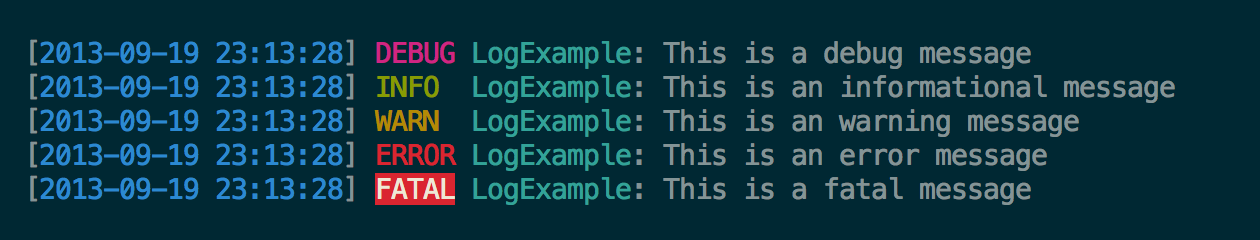
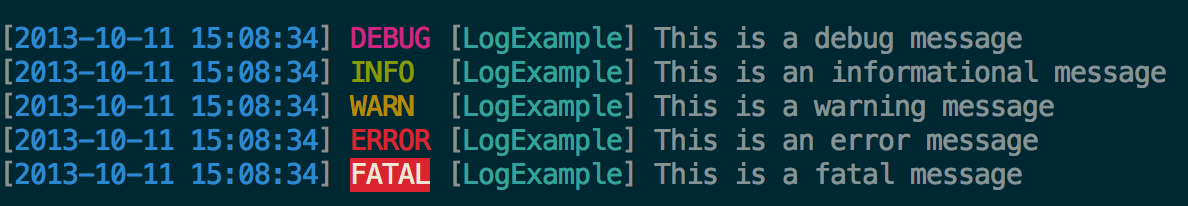
Code for logging factory

Changed region(s): [[0.0, 0.1165, 0.9966, 0.932]]

diff --git a/lib/logging_factory.rb b/lib/logging_factory.rb
@@ -1,18 +1,11 @@
-require 'load_path'
-
-LoadPath.configure do
-  add child_directory('logging_factory')
-
-  require 'version'
-  require 'preconditions'
-  require 'logging'
-end
+require 'version'
+require 'preconditions'
+require 'logging'
 
 #
 # This class that contains code for initializing logs.
-# Author: Nayyara Samuel (nayyara.samuel@opower.com)
+# @author: Nayyara Samuel (mailto: nayyara.samuel@opower.com)
 #
-
 # Patch so that certain checks can be gotten on a class using `include Preconditions`
 module Preconditions
   def self.included(receiver)
@@ -22,88 +15,94 @@ module Preconditions
 end
 
 # Logging factory for logs
-module Opower
+module LoggingFactory
+
   DEFAULT_LOG_CONFIGURATION = {
       output: 'STDOUT',
       truncate: false,
       level: :debug,
-      format: '[%d] %-5l %c: %m\n'
+      format: '[%d] %-5l [%c] %m\n'
   }
 
-  class LoggingFactory
+  # Create a new logging factory
+  def self.create(*params)
+    Logger.new(*params)
+  end
+
+  # Main logger class
+  class Logger
     include Preconditions
-    attr_accessor :log_configuration
+
+    attr_reader :log_configuration
 
     # Initializes this logger instance with teh format specified
     def initialize(config={})
-      final_config = DEFAULT_LOG_CONFIGURATION.merge(config)
-      @log_configuration = final_config
-    end
-
-    def log_configuration=(config)
-      final_config = DEFAULT_LOG_CONFIGURATION.merge(config)
-      @log_configuration = final_config
+      @log_configuration = DEFAULT_LOG_CONFIGURATION.merge(config)
     end
 
     # Returns a new log for the calling class with the supplied configuration
-    def log(caller)
+    def log(caller, config={})
+      log_configuration = @log_configuration.merge(config)
       log = Logging.logger[caller]
-      add_appenders(log)
+      add_appenders(log, log_configuration)
       log
     end
 
     private
-    def add_appenders(log)
-      destination = @log_configuration[:output]
-      truncate = @log_configuration[:truncate]
-      level = @log_configuration[:level].to_sym
+    def add_appenders(log, log_configuration)
+      destination = log_configuration[:output]
+      truncate = log_configuration[:truncate]
+      level = log_configuration[:level].to_sym
+      fmt = log_configuration[:format]
 
       if (destination == 'STDOUT')
-        append_stdout_format(log)
+        append_stdout_format(log, fmt)
       else
-        append_file_format(log, destination, truncate)
+        append_file_format(log, destination, fmt, truncate)
       end
 
+      valid_levels = [:debug, :error, :fatal, :warn, :info]
       check(level) do
-        satisfies("Logging level must be one of {debug, info, warn}") do
-          level == :debug || level == :info || level == :warn
+        satisfies("Logging level must be one of {#{valid_levels.join(',')}}") do
+          valid_levels.include?(level)
         end
       end
       log.level = level
       log
     end
 
-    def append_file_format(log, destination, truncate=false)
+    def append_file_format(log, destination, fmt, truncate=false)
       Logging.appenders.file(destination,
                              {
                                  file_name: destination,
                                  truncate: truncate ? true : false,
-                                 layout: Logging.layouts.pattern(
-                                     pattern: @log_configuration[:format]
-                                 )
-                             }
-      )
+                                 layout: Logging.layouts.pattern(pattern: fmt)
+                             })
       log.add_appenders(destination)
     end
 
-    def append_stdout_format(log)
+    def append_stdout_format(log, fmt)
       Logging.color_scheme('bright',
                            levels: {
-                               debug: :magenta, info: :green, warn: :yellow, error: :red, fatal: [:white, :on_red]
+                               debug: :magenta,
+                               info: :green,
+                               warn: :yellow,
+                               error: :red, fatal: [:white, :on_red]
                            },
-                           date: :blue, logger: :cyan
-      )
+                           date: :blue, logger: :cyan)
       Logging.appenders.stdout(
           'stdout',
           layout: Logging.layouts.pattern(
-              pattern: @log_configuration[:format],
-              color_scheme: 'bright'
-          )
-      )
+              pattern: fmt,
+              color_scheme: 'bright'))
       log.add_appenders 'stdout'
     end
   end
 
-  LOGGING_FACTORY = LoggingFactory.new
+  DEFAULT_FACTORY = LoggingFactory.create
 end
+
+
+
+
 

diff --git a/spec/log_stdout_spec.rb b/spec/log_stdout_spec.rb
@@ -1,0 +1,38 @@
+require 'spec_helper'
+
+describe LoggingFactory::Logger do
+
+  context 'log to file' do
+
+    let(:file_accessor) { FileAccessor.new(:spec) }
+    let(:log_file) { 'my_log.log' }
+    let(:log) { LoggingFactory::DEFAULT_FACTORY.log('LogExample', output: file_accessor['my_log.log']) }
+    let(:debug_message) { 'This is a debug message' }
+    let(:info_message) { 'This is an info message' }
+    let(:warn_message) { 'This is a warn message' }
+    let(:error_message) { 'This is an error message' }
+    let(:fatal_message) { 'This is a fatal message' }
+    let(:time_regex) { /\[\d{4}(\-\d{2}){2} \d{2}(\:\d{2}){2}\]/ }
+
+    before do
+      log.debug(debug_message)
+      log.info(info_message)
+      log.warn(warn_message)
+      log.error(error_message)
+      log.fatal(fatal_message)
+    end
+
+    it 'logs messages correctly with log levels' do
+      log_content = file_accessor.read('my_log.log')
+      log_lines = log_content.split("\n")
+      expect(log_lines[0]).to match(/^#{time_regex} DEBUG \[LogExample\] #{debug_message}$/)
+      expect(log_lines[1]).to match(/^#{time_regex} INFO  \[LogExample\] #{info_message}$/)
+      expect(log_lines[2]).to match(/^#{time_regex} WARN  \[LogExample\] #{warn_message}$/)
+      expect(log_lines[3]).to match(/^#{time_regex} ERROR \[LogExample\] #{error_message}$/)
+      expect(log_lines[4]).to match(/^#{time_regex} FATAL \[LogExample\] #{fatal_message}$/)
+    end
+
+  end
+end
+
+

diff --git a/spec/spec_helper.rb b/spec/spec_helper.rb
@@ -1,0 +1,37 @@
+require 'rspec'
+require 'rspec/mocks'
+require_relative '../lib/logging_factory'
+
+# A class to allow easy reference of files with a given base path
+class FileAccessor
+  attr_accessor :base_path
+
+  # Options should have a list of parts which will be appended together to give the base path
+  def initialize(*options)
+    @base_path = File.join(options.map {|f| f.to_s})
+  end
+
+  # Access specific file in the base path
+  def [](file_name)
+    File.join(@base_path, file_name)
+  end
+
+  # Read the given file
+  def read(file_name)
+    File.read(File.join(@base_path, file_name))
+  end
+
+  # Delete all files in the directory
+  def delete_files(pattern='*.log')
+    FileUtils.rm_rf Dir.glob(File.join(base_path, pattern))
+  end
+end
+
+RSpec.configure do |config|
+
+  config.before(:suite) do
+    file_accessor = FileAccessor.new(:spec)
+    file_accessor.delete_files
+  end
+
+end

diff --git a/lib/version.rb b/lib/version.rb
@@ -1,0 +1,4 @@
+module LoggingFactory
+  VERSION = '0.0.1'
+end
+

diff --git a/README.md b/README.md
@@ -17,21 +17,56 @@ Or install it yourself as:
     $ gem install logging_factory
 
 ## Usage
-By default all output is written to standard output.
+By default all output is written to standard output. To use in your project:
 
+     public class MyClass
+        def initialize()
+           log = LoggingFactory::DEFAULT_FACTORY.log(self.class)
+        end
+     end
+
+This will instantiate a log with the default configuration, specified by `LoggingFactory::DEFAULT_LOG_CONFIGURATION`:
+
+      {
+         output: 'STDOUT',
+         truncate: false,
+         level: :debug,
+         format: '[%d] %-5l [%c]: %m\n'
+     }
+     
+To override this configuration you can modify a log instance like this:
+
+     public class MyClass
+        def initialize()
+           log = LoggingFactory::DEFAULT_FACTORY.log(self.class, output: 'myproject.log')
+        end
+     end
+
+Or create a new factory instant for use in your project:
+
+
+     MY_LOG_FACTORY = LoggingFactory.create (
+         output: 'myproject.log'
+     )
+
+
+This will create an factory that will use the `myproject.log` for logging. Other options which are no supplied will fall back to the default unless explicitly overridden.
+
+     
 ## Examples
+See `spec/my_log.log` for an example (run tests to generate this file).
 
 Standard output:
 
-<img src='https://github.va.opower.it/nayyara-samuel/logging_factory/blob/master/img/stdout.png?raw=true' height='130'>
+<img src='https://github.com/nayyara-samuel/logging-factory/blob/master/img/stdout.png?raw=true' height='130'>
 
 Log file:
 
-    [2013-09-19 23:12:18] DEBUG LogExample: This is a debug message
-    [2013-09-19 23:12:18] INFO  LogExample: This is an informational message
-    [2013-09-19 23:12:18] WARN  LogExample: This is an warning message
-    [2013-09-19 23:12:18] ERROR LogExample: This is an error message
-    [2013-09-19 23:12:18] FATAL LogExample: This is a fatal message
+    [2013-09-19 23:12:18] DEBUG [LogExample] This is a debug message
+    [2013-09-19 23:12:18] INFO  [LogExample] This is an informational message
+    [2013-09-19 23:12:18] WARN  [LogExample] This is an warning message
+    [2013-09-19 23:12:18] ERROR [LogExample] This is an error message
+    [2013-09-19 23:12:18] FATAL [LogExample] This is a fatal message
 
 ## Contributing
 
